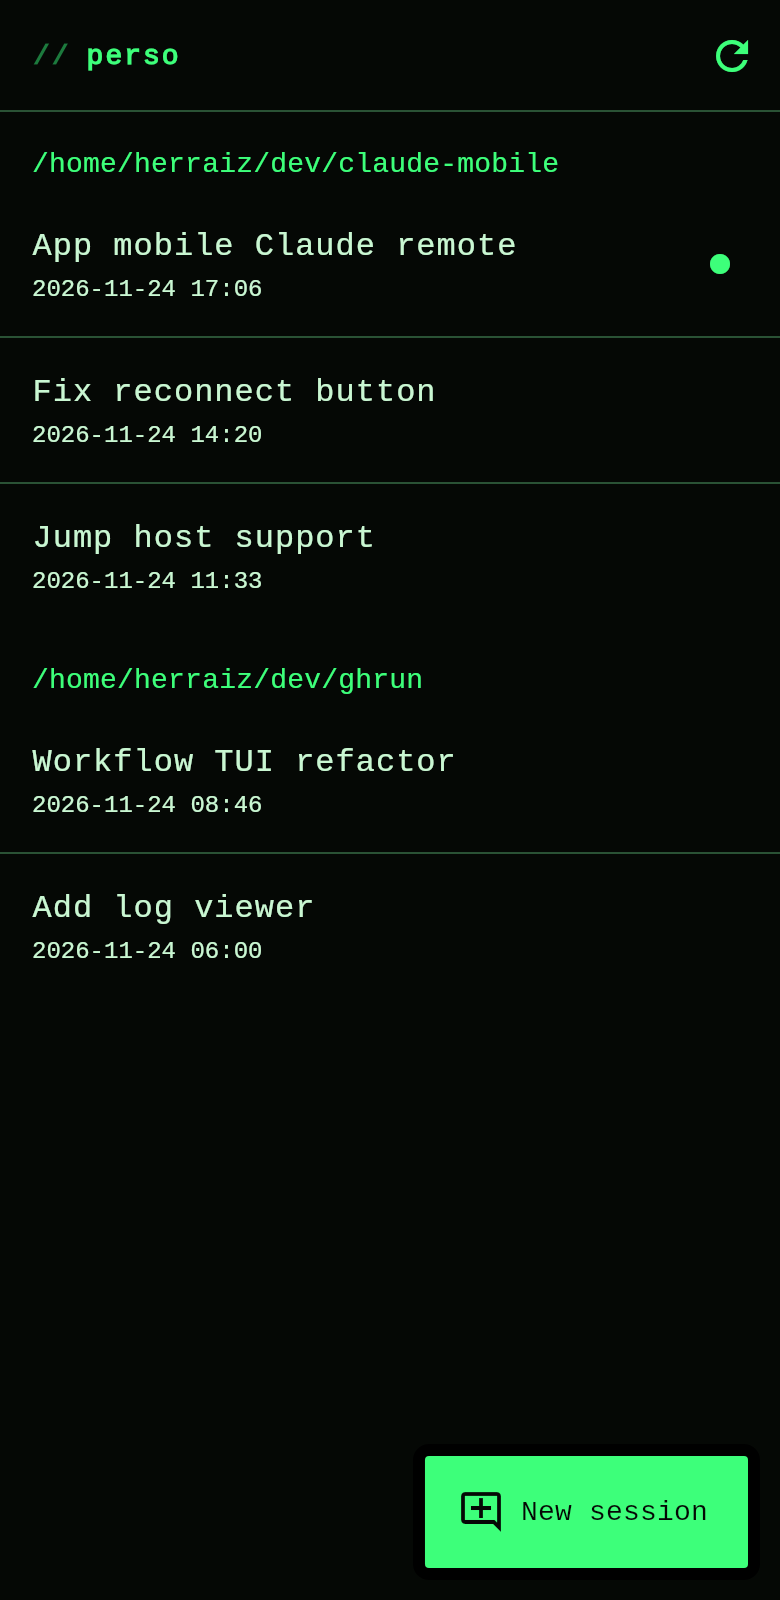
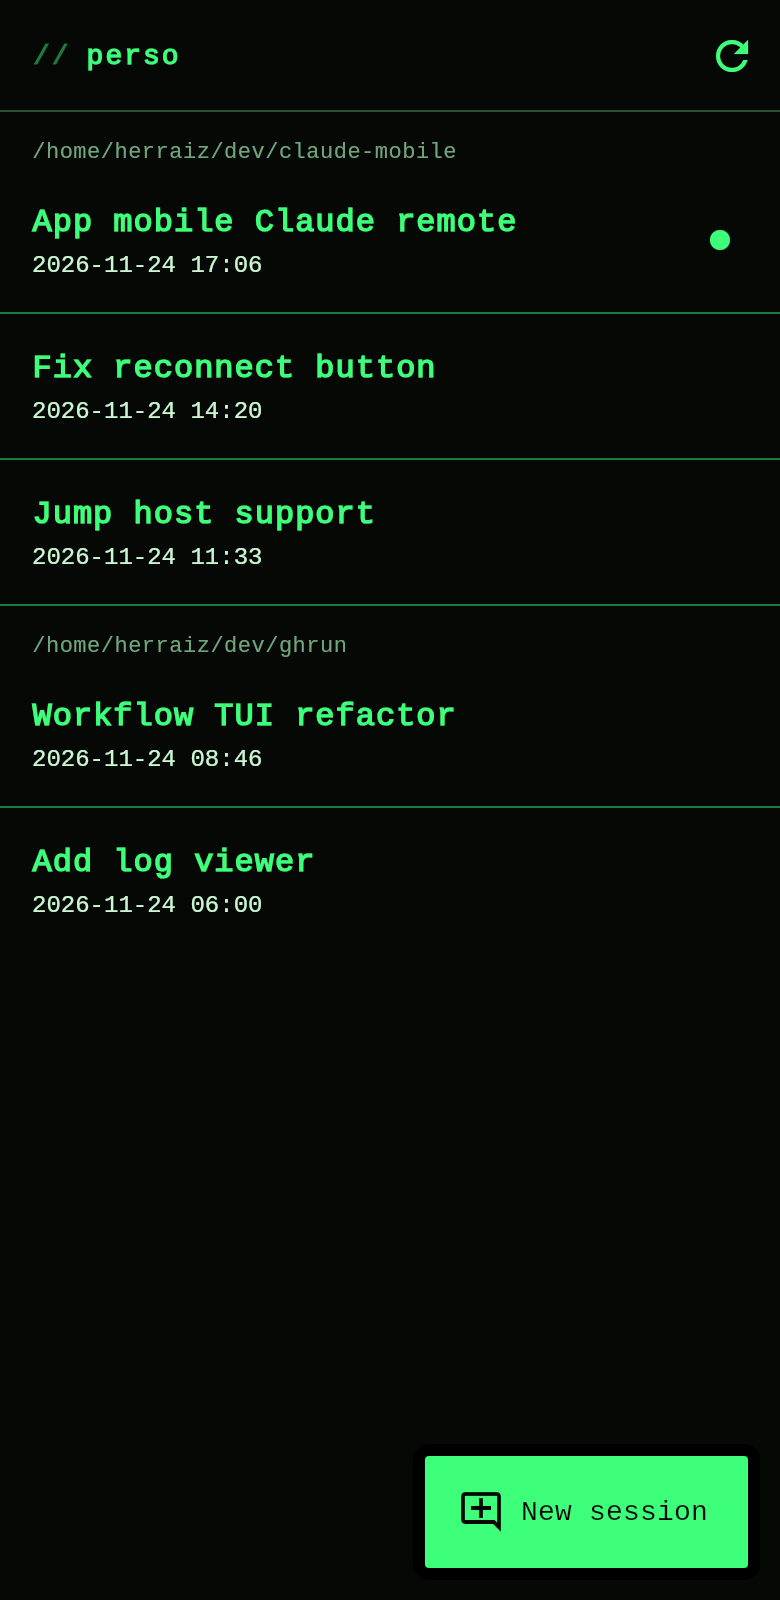
fix: rule off every session and emphasise its name over the directory

diff --git a/test/ui/screens_test.dart b/test/ui/screens_test.dart
@@ -4,6 +4,7 @@ import 'package:claude_mobile/state/providers.dart';
 import 'package:claude_mobile/storage/profile_store.dart';
 import 'package:claude_mobile/ui/profiles_screen.dart';
 import 'package:claude_mobile/ui/sessions_screen.dart';
+import 'package:claude_mobile/ui/theme.dart';
 import 'package:dartssh2/dartssh2.dart';
 import 'package:flutter_riverpod/flutter_riverpod.dart';
 import 'package:flutter_test/flutter_test.dart';
@@ -75,6 +76,44 @@ void main() {
     expect(find.text('Name of s2'), findsOneWidget);
     expect(find.text('task s2'), findsNothing);
     expect(find.byType(Divider), findsNWidgets(2));
+  });
+
+  testWidgets('every session is ruled off, across directories too, and its '
+      'name stands out more than the directory', (t) async {
+    await ProfileStore(kv).save(perso, privateKeyPem: 'k');
+    ssh.runResults = {
+      listSessionsCommand:
+          '3.0 /p/-a/s1.jsonl\n2.0 /p/-b/s2.jsonl\n1.0 /p/-c/s3.jsonl\n',
+      for (final (id, dir) in [('s1', 'a'), ('s2', 'b'), ('s3', 'c')])
+        headCommand('/p/-$dir/$id.jsonl'):
+            '{"type":"user","cwd":"/$dir","message":{"content":"x"}}\n'
+            '{"type":"ai-title","aiTitle":"Name of $id"}\n',
+    };
+    await t.pumpWidget(
+      ProviderScope(
+        overrides: [
+          keyValueStoreProvider.overrideWithValue(kv),
+          sshFactoryProvider.overrideWithValue(() => ssh),
+        ],
+        child: MaterialApp(
+          theme: terminalTheme,
+          home: const SessionsScreen(profile: perso),
+        ),
+      ),
+    );
+    await t.pumpAndSettle();
+    // One session per directory: still a line between each of the three.
+    expect(find.byType(Divider), findsNWidgets(2));
+
+    TextStyle style(String text) =>
+        DefaultTextStyle.of(t.element(find.text(text))).style
+            .merge(t.widget<Text>(find.text(text)).style);
+    final name = style('Name of s1');
+    final directory = style('/a');
+    expect(name.color, TerminalColors.green);
+    expect(name.fontWeight, FontWeight.bold);
+    expect(directory.color, isNot(TerminalColors.green));
+    expect(directory.fontSize!, lessThan(name.fontSize!));
   });
 
   testWidgets('adding a profile stores it with its key', (t) async {

diff --git a/lib/ui/sessions_screen.dart b/lib/ui/sessions_screen.dart
@@ -139,16 +139,23 @@ class SessionsScreen extends ConsumerWidget {
             );
           }
           final groups = byCwd(list);
+          final scheme = Theme.of(context).colorScheme;
           return ListView(
             padding: const EdgeInsets.only(bottom: 88),
             children: [
-              for (final entry in groups.entries) ...[
+              for (final (g, entry) in groups.entries.indexed) ...[
+                // A line between every session, whatever its directory.
+                if (g > 0) const Divider(height: 1),
+                // The directory only situates the sessions: kept discreet.
                 Padding(
-                  padding: const EdgeInsets.fromLTRB(16, 16, 16, 4),
+                  padding: const EdgeInsets.fromLTRB(16, 12, 16, 0),
                   child: Text(
                     entry.key,
-                    style: Theme.of(context).textTheme.labelLarge?.copyWith(
-                      color: Theme.of(context).colorScheme.primary,
+                    maxLines: 1,
+                    overflow: TextOverflow.ellipsis,
+                    style: TextStyle(
+                      fontSize: 11,
+                      color: scheme.onSurfaceVariant,
                     ),
                   ),
                 ),
@@ -159,6 +166,10 @@ class SessionsScreen extends ConsumerWidget {
                       s.title ?? s.id,
                       maxLines: 2,
                       overflow: TextOverflow.ellipsis,
+                      style: TextStyle(
+                        color: scheme.primary,
+                        fontWeight: FontWeight.bold,
+                      ),
                     ),
                     subtitle: Text(_when(s.modified)),
                     trailing: s.recentlyActive

diff --git a/lib/ui/theme.dart b/lib/ui/theme.dart
@@ -75,7 +75,8 @@ ThemeData _build() {
       shape: const Border(bottom: BorderSide(color: TerminalColors.line)),
     ),
     dividerTheme: const DividerThemeData(
-      color: TerminalColors.line,
+      // Brighter than the other rules: this one has to show on a phone.
+      color: TerminalColors.dimGreen,
       thickness: 1,
       space: 1,
     ),
